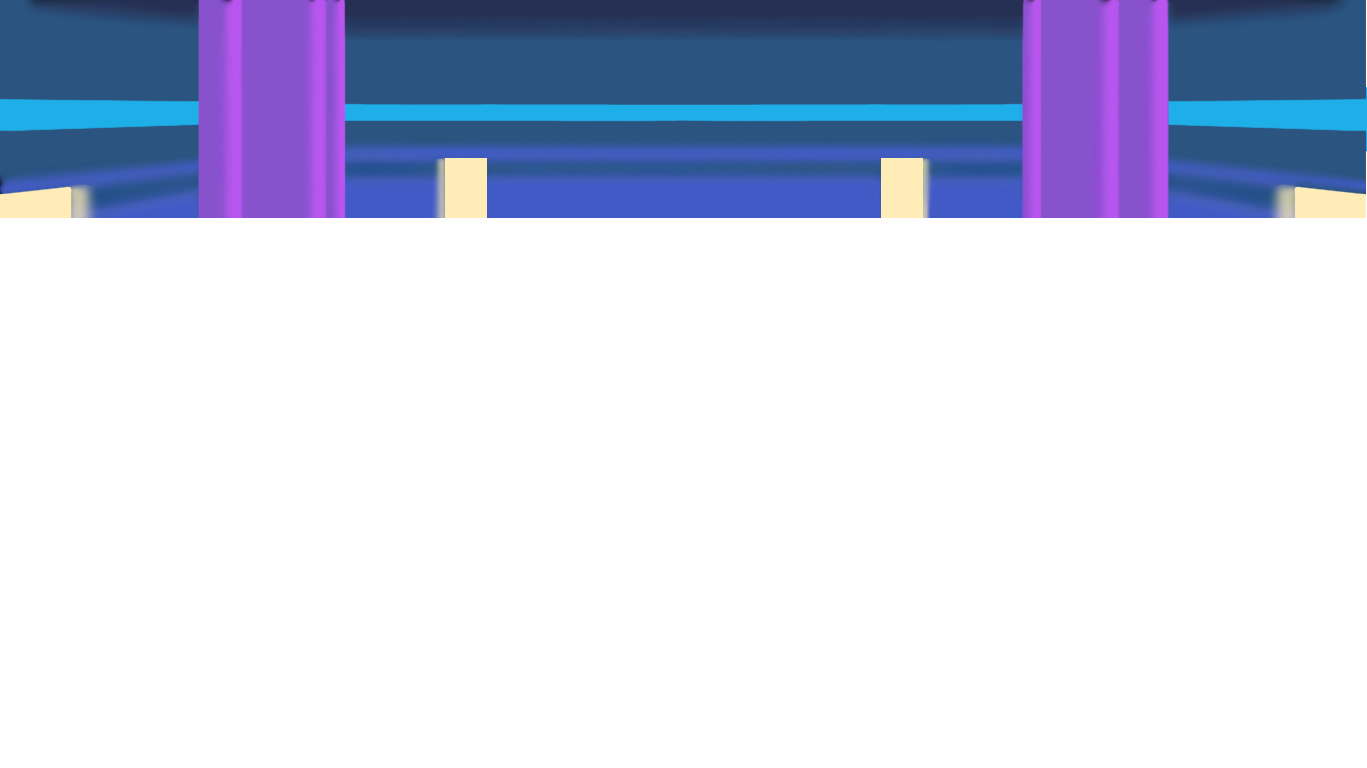
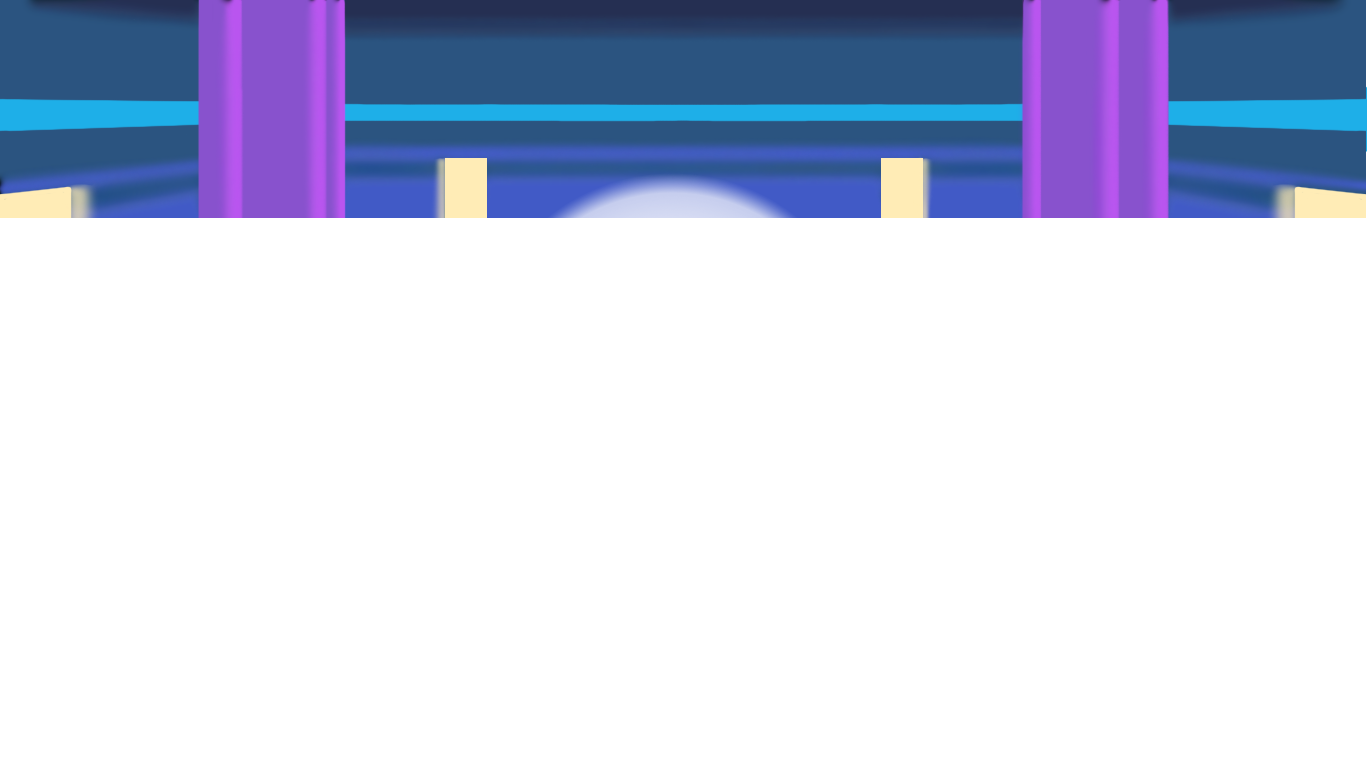
Added additional assets

Changed region(s): [[0.3994, 0.2188, 0.5838, 0.2812]]

diff --git a/GXPEngine/Ui/Ui.cs b/GXPEngine/Ui/Ui.cs
@@ -9,6 +9,7 @@ class Ui : GameObject
     // menuTile array
     Sprite titleImage;
     Sprite backgroundImage;
+    Sprite extraInstructions;
     Sprite[] backgroundTiles = new Sprite[2];
     MenuTile[] menuTiles = new MenuTile[3];
     int tilesToRender;
@@ -32,6 +33,7 @@ class Ui : GameObject
         // NOTE : This is a placeholder for the menuTiles untill the json configs are implemented
         titleImage = new Sprite("uiAssets/Title.png");
         backgroundImage = new Sprite("uiAssets/background.png");
+        extraInstructions = new Sprite("uiAssets/extraInstructions.png");
         LoadMenuTiles();
     }
 
@@ -131,6 +133,7 @@ class Ui : GameObject
         parent.AddChild( titleImage );
         parent.AddChild( backgroundTiles[0] );
         parent.AddChild( backgroundTiles[1] );
+        parent.AddChild(extraInstructions);
 
         // set amount of tiles to render
         renderedTiles = new int[tilesToRender];
